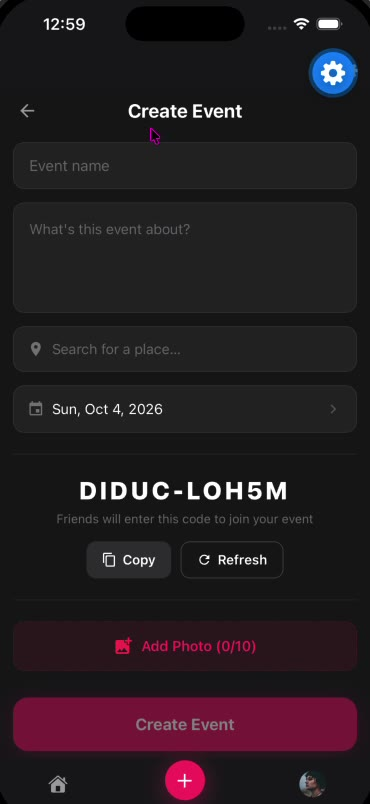
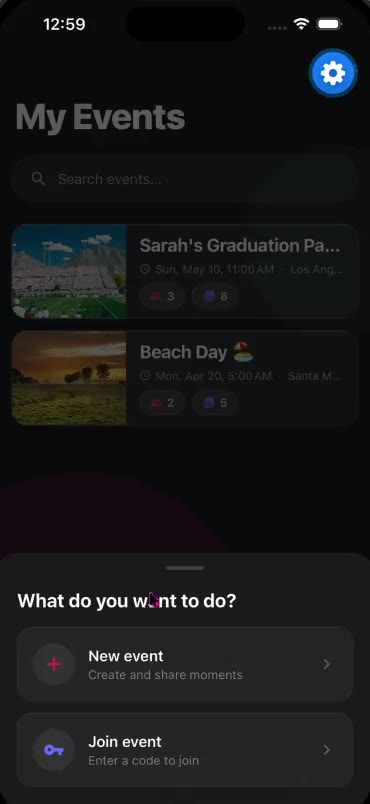
fix: DIDUC screens swap instantly, clips play continuously

diff --git a/src/components/ScreenTour.tsx b/src/components/ScreenTour.tsx
@@ -14,22 +14,21 @@ interface ScreenMediaProps {
   screen: Screen;
   alt: string;
   className: string;
-  /** Only the pinned phone passes this; a clip that isn't the active one holds still. */
-  playing?: boolean;
   image: Omit<ImageProps, 'src' | 'alt' | 'className'>;
 }
 
-/** A still, or, for a screen with a clip, a muted loop that behaves like a GIF. */
-function ScreenMedia({ screen, alt, className, playing = true, image }: ScreenMediaProps) {
+/** A still, or, for a screen with a clip, a muted loop that plays from page load like a GIF in a Figma frame. */
+function ScreenMedia({ screen, alt, className, image }: ScreenMediaProps) {
   const ref = useRef<HTMLVideoElement>(null);
   const isVideo = Boolean(screen.video);
 
   useEffect(() => {
     const video = ref.current;
     if (!video) return;
-    if (playing) video.play().catch(() => {});
-    else video.pause();
-  }, [playing, isVideo]);
+    video.play().catch(() => {
+      // Autoplay was refused (Low Power Mode, browser policy). The poster stays up.
+    });
+  }, [isVideo]);
 
   if (!isVideo) return <Image src={screen.src} alt={alt} className={className} {...image} />;
 
@@ -44,7 +43,7 @@ function ScreenMedia({ screen, alt, className, playing = true, image }: ScreenMe
       loop
       muted
       playsInline
-      preload="metadata"
+      preload="auto"
       className={image.fill ? `absolute inset-0 h-full w-full ${className}` : className}
     />
   );
@@ -85,8 +84,7 @@ export default function ScreenTour({ screens, size }: ScreenTourProps) {
                 key={screen.src}
                 screen={screen}
                 alt={i === active ? screen.label : ''}
-                className={styles.stickyShot(i === active, Boolean(screen.video))}
-                playing={i === active}
+                className={styles.stickyShot(i === active)}
                 image={{ fill: true, sizes: styles.stickyShotSizes }}
               />
             ))}

diff --git a/src/styles/components/ScreenTour.ts b/src/styles/components/ScreenTour.ts
@@ -12,11 +12,9 @@ export const stageRatio = (size: { width: number; height: number }) => ({
   width: `min(100%, calc(min(72vh, 40rem) * ${size.width / size.height}))`,
   height: 'auto',
 });
-/** Stills crossfade; a clip cuts straight to the next screen so it plays as recorded. */
-export const stickyShot = (isActive: boolean, isVideo = false) =>
-  `rounded-[1.875rem] object-cover shadow-shot ${
-    isVideo ? '' : 'transition-opacity duration-300 motion-reduce:transition-none'
-  } ${isActive ? 'opacity-100' : 'opacity-0'}`;
+/** Screens swap instantly: no fade, no scale, nothing between one screen and the next. */
+export const stickyShot = (isActive: boolean) =>
+  `rounded-[1.875rem] object-cover shadow-shot ${isActive ? 'opacity-100' : 'opacity-0'}`;
 /**
  * The widest the sticky frame ever actually renders is a landscape screenshot at the page's own
  * max column width (~590px); a portrait one stays well under that. 380px under-hinted landscape

diff --git a/src/components/DemoVideo.tsx b/src/components/DemoVideo.tsx
@@ -33,7 +33,7 @@ export default function DemoVideo({ src, poster, label, className }: DemoVideoPr
       loop
       playsInline
       disablePictureInPicture
-      preload="metadata"
+      preload="auto"
       className={className}
     />
   );
